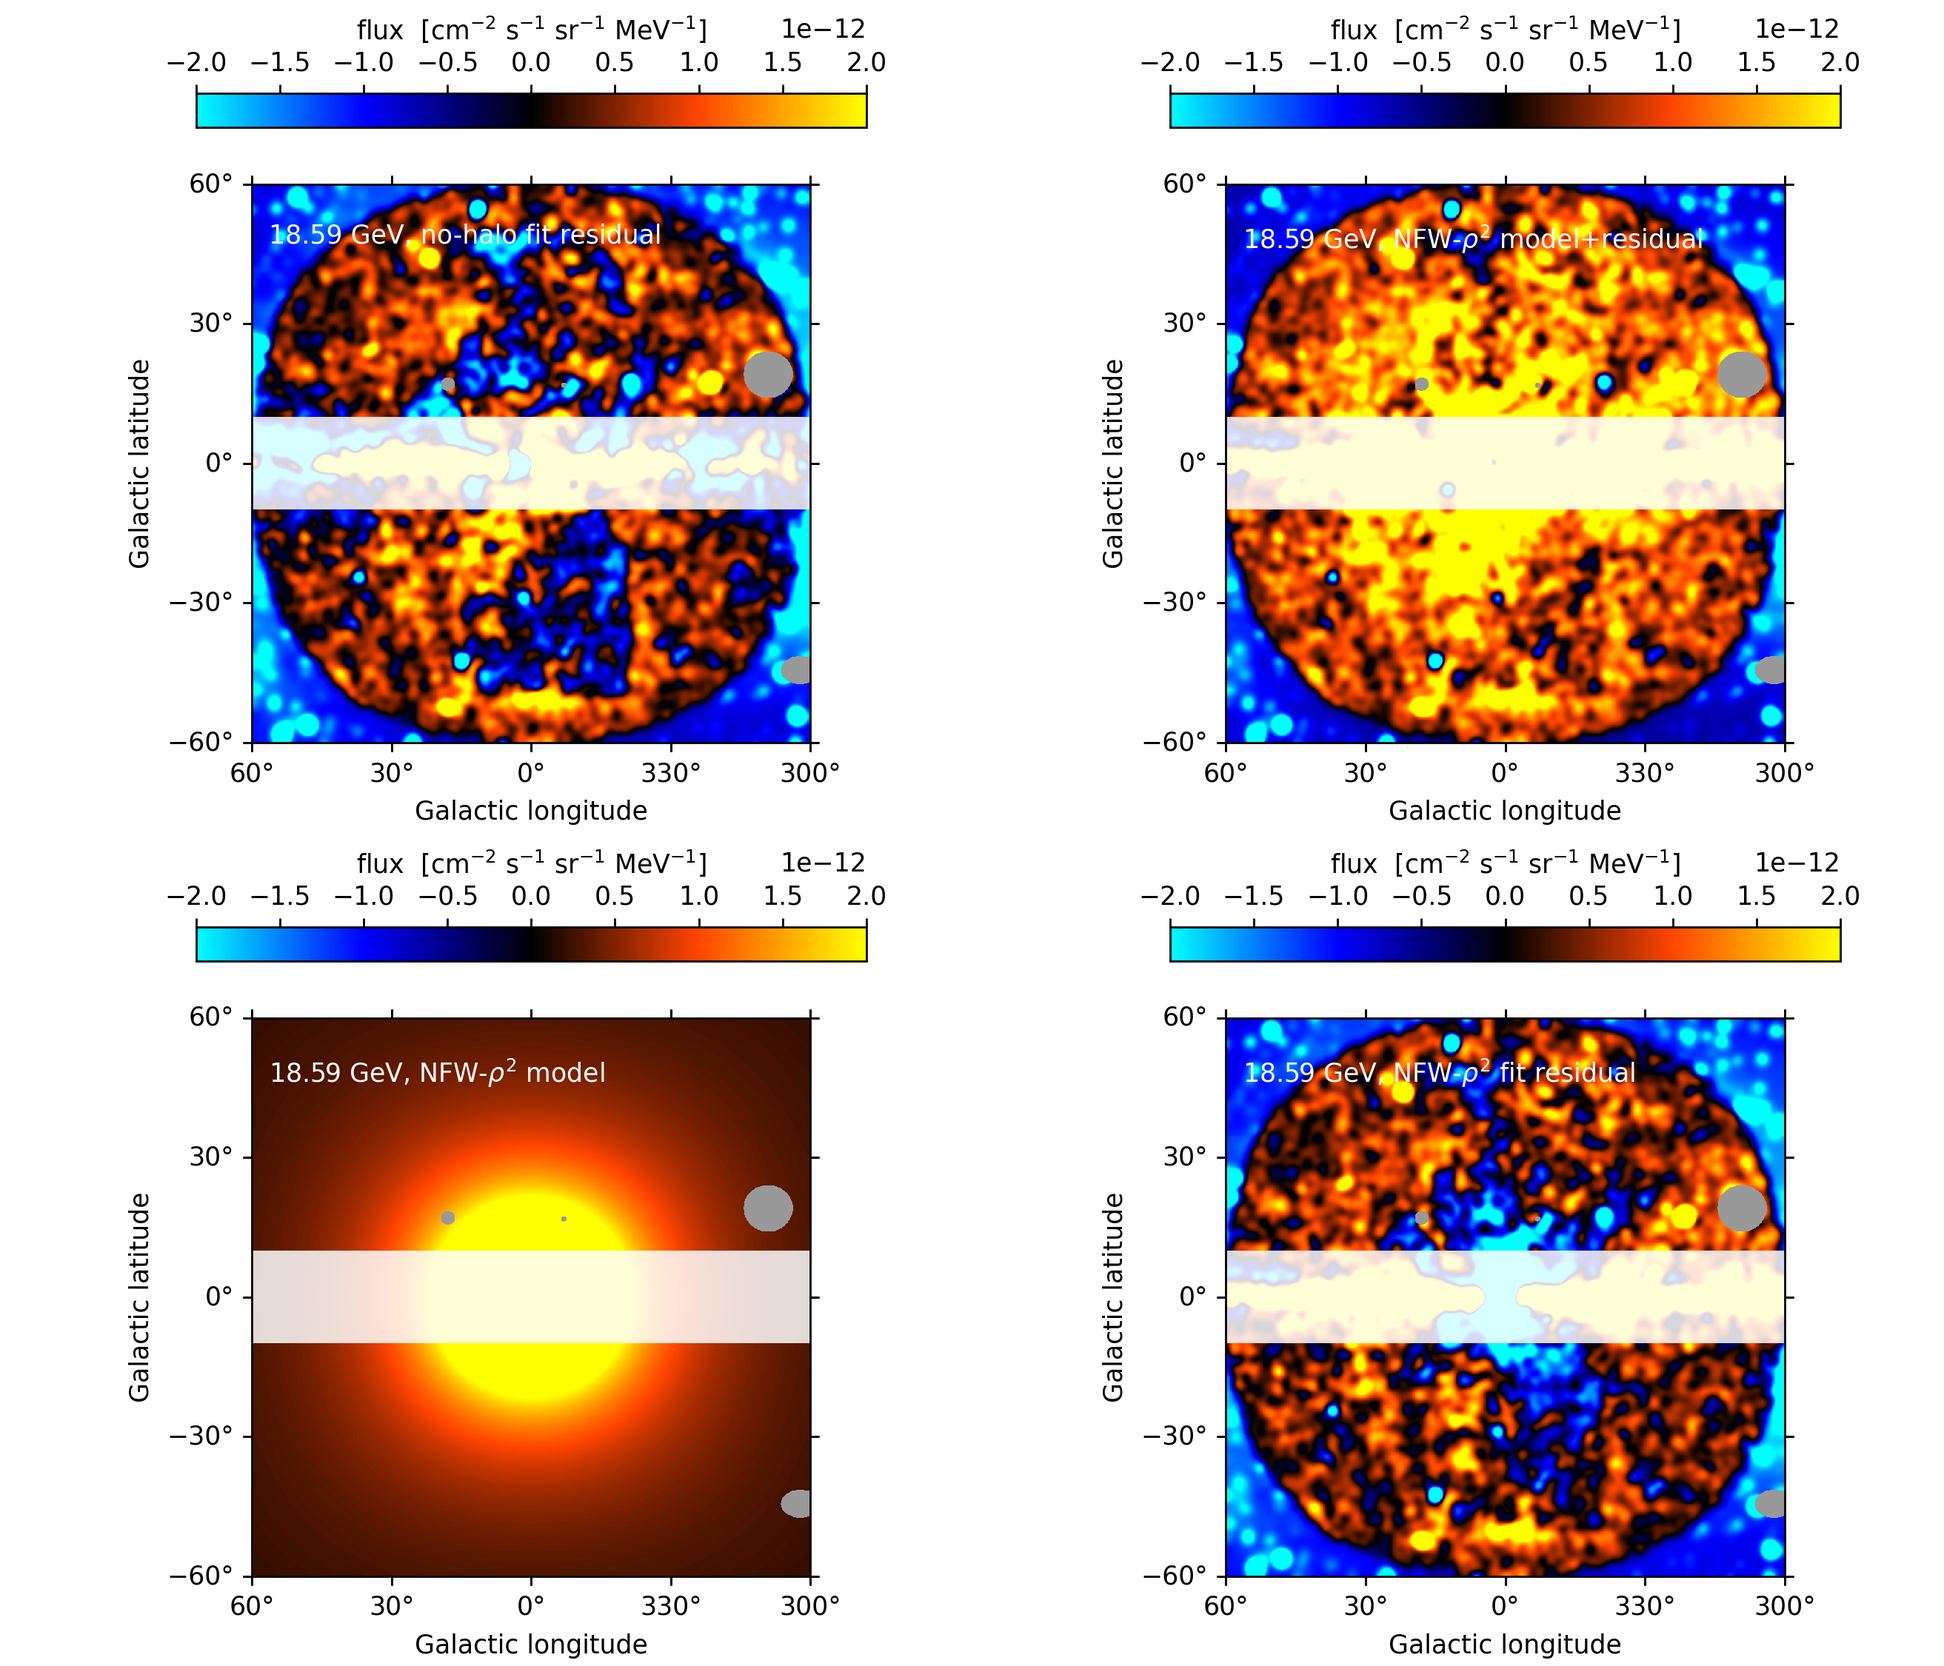
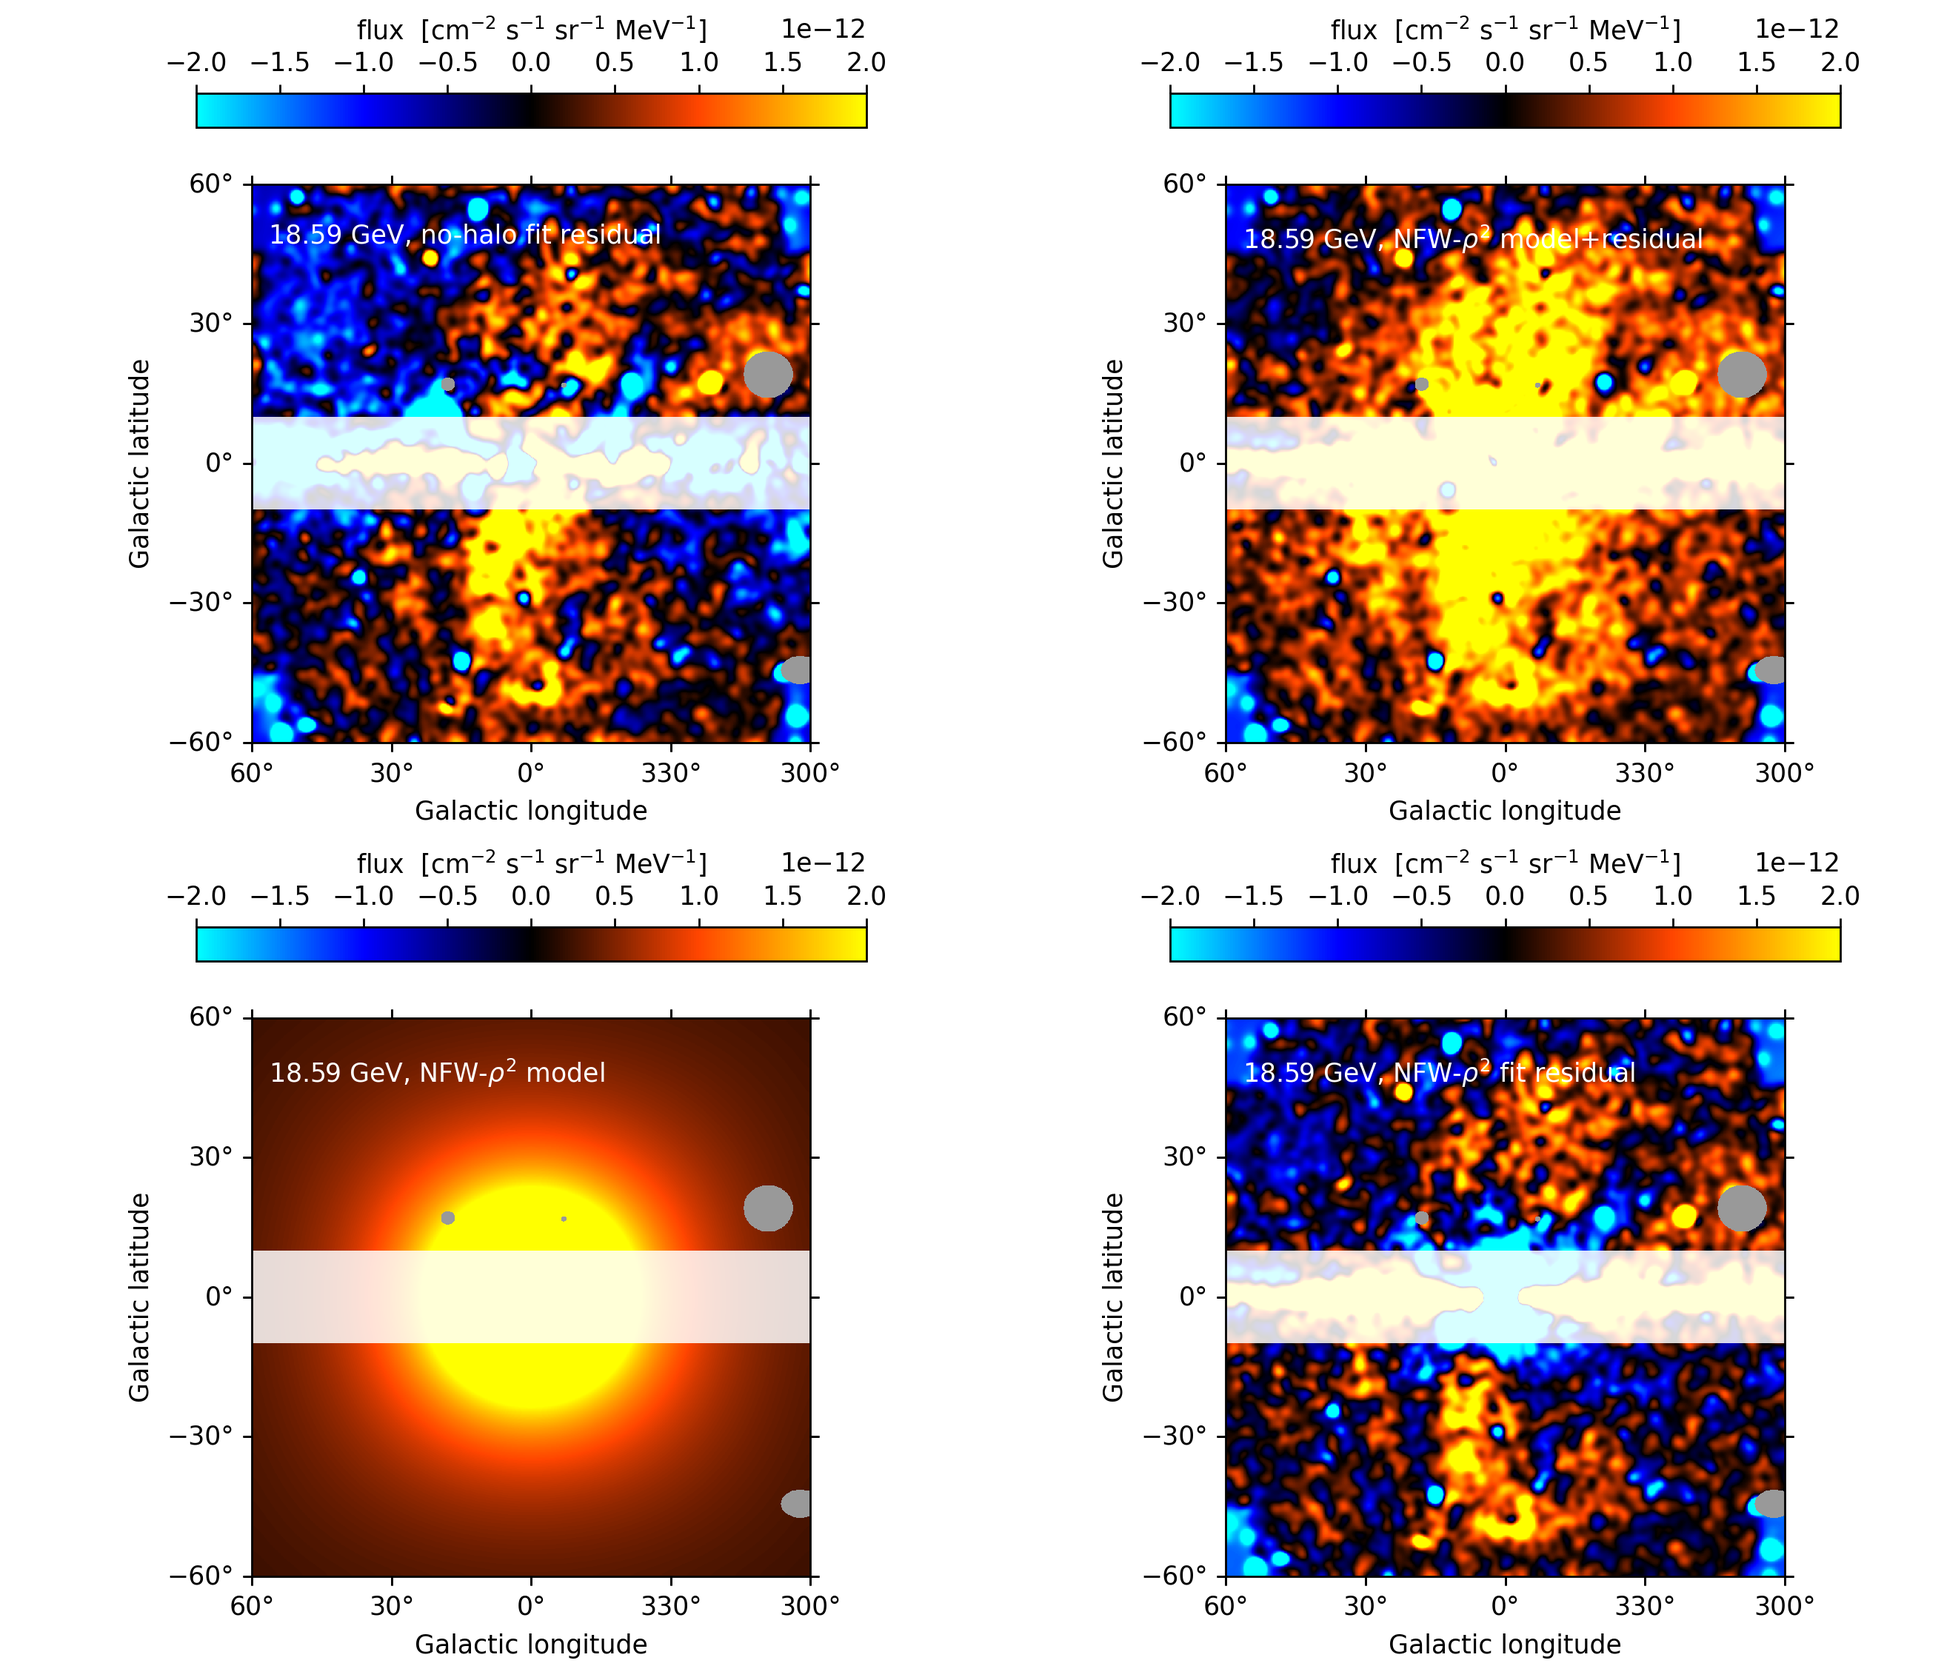
defaulting runs

diff --git a/Totani_paper_check/make_templates/build_nfw_template.py b/Totani_paper_check/make_templates/build_nfw_template.py
@@ -217,7 +217,7 @@ def main():
     )
     ap.add_argument(
         "--rescale-to-data-sum",
-        default=True,
+        default=False,
         action=argparse.BooleanOptionalAction,
         help="After building mu, rescale each energy plane so sum(mu)=sum(data) within the ROI/data mask.",
     )
@@ -333,9 +333,10 @@ def main():
     if np.any(data_ok2d):
         max_abs_lat_cov = float(np.nanmax(np.abs(lat[data_ok2d])))
         print(f"max |lat| with valid data coverage: {max_abs_lat_cov:.2f} deg")
-        if max_abs_lat_cov < 55.0:
+        lat_warn = max(0.0, float(args.roi_lat) - 2.0 * float(args.binsz))
+        if max_abs_lat_cov < lat_warn:
             print(
-                "WARNING: data coverage does not extend to |b|>=55 deg; "
+                f"WARNING: data coverage does not extend to |b|>={lat_warn:.2f} deg; "
                 "high-latitude discrimination between NFW rho^1, rho^2, and rho^2.5 templates "
                 "will be degraded relative to Totani (2025)."
             )
@@ -367,35 +368,19 @@ def main():
                 f"rhos={args.rhos}, rs_kpc={args.rs_kpc}, R0_kpc={args.R0_kpc}, rvir_kpc={args.rvir_kpc}, gamma={args.gamma})."
             )
 
-    # Optional: pole-like normalisation using a latitude band on the actual pixel grid.
-    # This keeps the template spatial-only while allowing a configurable "pole" latitude.
+    # Pole normalization is defined at b=+90 deg (analytic J_pole) to match Totani's convention.
+    # Do not approximate it by averaging over a latitude band on the pixel grid.
     if args.norm in ("pole", "pole+roi-sum", "ref-point"):
-        pole_lat = float(args.pole_lat)
-        pole_lat_eff = max(0.0, min(90.0, pole_lat - float(args.binsz)))
-        pole2d = data_ok2d & (np.abs(lat) >= pole_lat_eff)
-        pole_vals = J[pole2d]
-        pole_vals = pole_vals[np.isfinite(pole_vals) & (pole_vals > 0)]
-        if pole_vals.size == 0:
-            # If data coverage does not extend to the requested pole band (common if |b|max < pole_lat),
-            # fall back to the *analytic* Jpole at b=+90 deg. This preserves Totani's pole convention.
-            vabs = np.abs(lat[data_ok2d])
-            max_cov = float(np.nanmax(vabs)) if np.any(np.isfinite(vabs)) else np.nan
-            print(
-                f"WARNING: pole normalization band empty for |b|>={pole_lat_eff:.2f} deg (max coverage |b|~{max_cov:.2f} deg). "
-                "Falling back to analytic Jpole at b=90 deg."
-            )
-            Jpole = pole_normalization_value(
-                rho_power=args.rho_power,
-                gamma=args.gamma,
-                rs_kpc=args.rs_kpc,
-                rhos=args.rhos,
-                R0_kpc=args.R0_kpc,
-                rvir_kpc=args.rvir_kpc,
-                n_s=max(4096, args.n_s),
-                smax_kpc=args.smax_kpc,
-            )
-        else:
-            Jpole = float(np.mean(pole_vals))
+        Jpole = pole_normalization_value(
+            rho_power=args.rho_power,
+            gamma=args.gamma,
+            rs_kpc=args.rs_kpc,
+            rhos=args.rhos,
+            R0_kpc=args.R0_kpc,
+            rvir_kpc=args.rvir_kpc,
+            n_s=max(4096, args.n_s),
+            smax_kpc=args.smax_kpc,
+        )
         if (not np.isfinite(Jpole)) or (Jpole <= 0.0):
             raise RuntimeError("Pole normalization factor is non-positive or non-finite.")
 
@@ -448,24 +433,16 @@ def main():
     # Now apply ROI mask and normalize to mean=1 within ROI for fitter stability.
     J[~roi] = 0.0
 
-    # For fitting stability: normalise spatial template to mean=1 within ROI
-    vals = J[roi]
-    vals = vals[np.isfinite(vals) & (vals > 0)]
-    if vals.size == 0:
-        raise RuntimeError("NFW template is zero in ROI after masking.")
-    mroi = float(np.mean(vals))
-    if (not np.isfinite(mroi)) or (mroi == 0.0):
-        raise RuntimeError("NFW ROI mean is invalid; cannot normalize.")
-    J = J / mroi
-    norm_fact_total *= float(mroi)
-
     nfw_spatial = J.astype(np.float64)
 
     # Solid angle map
     omega = pixel_solid_angle_map(wcs, ny, nx, args.binsz)
-    # Pole pixel is not exactly b=90 in your ROI grid, so sample a small cap
-    pole_cap = roi & (lat > 59.0)  # or > 55, depending on ROI
-    print("mean J in pole cap:", np.mean(J[pole_cap]))
+    # Pole pixel is not exactly b=90 in the ROI grid; report a data-driven high-latitude cap.
+    cap_lat = min(float(args.roi_lat), float(max_abs_lat_cov)) - 2.0 * float(args.binsz)
+    if np.isfinite(cap_lat) and (cap_lat > 0.0):
+        pole_cap = roi & (np.abs(lat) >= cap_lat)
+        if np.any(pole_cap):
+            print(f"mean J in |b|>={cap_lat:.3f} deg cap:", float(np.mean(J[pole_cap])))
 
 
     def _template_scale_report(*, k: int, data2d: np.ndarray, mu2d: np.ndarray, mask2d: np.ndarray, label: str):

diff --git a/Totani_paper_check/figures/fig8/make_totani_fig8.py b/Totani_paper_check/figures/fig8/make_totani_fig8.py
@@ -21,13 +21,21 @@ from totani_helpers.totani_io import (  # noqa: E402
     read_exposure,
     resample_exposure_logE,
 )
-from totani_helpers.fit_utils import E2_from_pred_counts_maps, build_fit_mask3d  # noqa: E402
-from totani_helpers.mcmc_io import combine_loopI, load_mcmc_coeffs_by_label, pick_coeff
-
-from fig2_3.make_totani_fig2_fig3_all import (  # noqa: E402
-    assert_templates_match_counts,
+from totani_helpers.fit_utils import (  # noqa: E402
+    E2_from_pred_counts_maps,
+    build_fit_mask3d,
     load_mu_templates_from_fits,
 )
+from totani_helpers.mcmc_io import combine_loopI, load_mcmc_coeffs_by_label, pick_coeff
+
+
+def _assert_templates_match_counts(counts: np.ndarray, mu_list: list[np.ndarray], labels: list[str]) -> None:
+    if not isinstance(mu_list, (list, tuple)) or len(mu_list) != len(labels):
+        raise ValueError("mu_list must align with labels")
+    for lab, mu in zip(labels, mu_list):
+        mu = np.asarray(mu)
+        if mu.shape != counts.shape:
+            raise ValueError(f"Template '{lab}' has shape {mu.shape}, expected counts shape {counts.shape}")
 
 
 REPO_DIR = os.environ.get(
@@ -60,17 +68,17 @@ def main():
 
     ap.add_argument(
         "--mcmc-dir-rho25",
-        default=os.path.join(REPO_DIR, "Totani_paper_check", "mcmc", "mcmc_results_rho2p5"),
+        default=os.path.join(REPO_DIR, "Totani_paper_check", "mcmc", "mcmc_results_fig5"),
         help="MCMC directory for rho=2.5 variant (mcmc_results_kXX.npz files).",
     )
     ap.add_argument(
         "--mcmc-dir-rho2",
-        default=os.path.join(REPO_DIR, "Totani_paper_check", "mcmc", "mcmc_results_rho2"),
+        default=os.path.join(REPO_DIR, "Totani_paper_check", "mcmc", "mcmc_results_fig6"),
         help="MCMC directory for rho=2 variant (mcmc_results_kXX.npz files).",
     )
     ap.add_argument(
         "--mcmc-dir-rho1",
-        default=os.path.join(REPO_DIR, "Totani_paper_check", "mcmc", "mcmc_results"),
+        default=os.path.join(REPO_DIR, "Totani_paper_check", "mcmc", "mcmc_results_fig7"),
         help="MCMC directory for rho=1 variant (mcmc_results_kXX.npz files).",
     )
     ap.add_argument(
@@ -170,7 +178,7 @@ def main():
             filename_pattern="mu_{label}_counts.fits",
             hdu=0,
         )
-        assert_templates_match_counts(counts, mu_list, labels_load)
+        _assert_templates_match_counts(counts, mu_list, labels_load)
 
         tab = load_mcmc_coeffs_by_label(mcmc_dir=str(mcmc_dir), stat=str(args.mcmc_stat), nE=nE)
         coeffs_plot = combine_loopI(coeffs_by_label=dict(tab.coeffs_by_label), out_key="loopI", drop_inputs=False)

diff --git a/Totani_paper_check/mcmc/run_mcmc.py b/Totani_paper_check/mcmc/run_mcmc.py
@@ -492,7 +492,7 @@ def main():
     ap.add_argument(
         "--negative-keys",
         nargs="+",
-        default=None,
+        default=["nfw", "fb_neg"],
         help=(
             "Substrings that identify components allowed to go negative. "
             "Default is ['nfw', 'fb_neg'] (applied as substring matches)."
@@ -503,7 +503,7 @@ def main():
     ap.add_argument(
         "--iso-anchor-e2",
         type=float,
-        default=1e-4,
+        default=None,
         help=(
             "Anchor the isotropic prior center to this E^2 dN/dE value [MeV cm^-2 s^-1 sr^-1] by converting "
             "to the corresponding f_iso for each energy bin."
@@ -511,7 +511,7 @@ def main():
     )
     ap.add_argument(
         "--iso-anchor",
-        default=True,
+        default=False,
         action=argparse.BooleanOptionalAction,
         help="Enable/disable anchoring the isotropic prior center to --iso-anchor-e2 (default: enabled).",
     )
@@ -527,7 +527,7 @@ def main():
     ap.add_argument(
         "--iso-prior-sigma-dex",
         type=float,
-        default=0.5,
+        default=None,
         help="Gaussian prior on log10(f_iso / f_iso0) with this sigma (dex). Set to 0 to disable.",
     )
     ap.add_argument(
@@ -612,7 +612,7 @@ def main():
     )
     ap.add_argument(
         "--tighten-negative-bounds",
-        default=True,
+        default=False,
         action=argparse.BooleanOptionalAction,
         help=(
             "Tighten negative lower bounds for any component allowed to go negative "
@@ -945,9 +945,7 @@ def main():
             vprint(1, f"[iso floor] E2(f=1)={E2I:.6e}  floor={float(args.iso_floor_e2):.6e}  => f_iso>={float(f_floor):.6e}")
 
     tighten_negative_bounds = bool(args.tighten_negative_bounds)
-    if args.tighten_halo_neg_bound is not None:
-        tighten_negative_bounds = bool(args.tighten_halo_neg_bound)
-
+    
     if tighten_negative_bounds:
         neg_idxs = []
         for j, lab in enumerate(labels):

diff --git a/Totani_paper_check/make_templates/build_loopI_template.py b/Totani_paper_check/make_templates/build_loopI_template.py
@@ -97,16 +97,9 @@ def main():
     ap.add_argument("--binsz", type=float, default=0.125)
     ap.add_argument("--roi-lon", type=float, default=60.0)
     ap.add_argument("--roi-lat", type=float, default=60.0)
-
-    ap.add_argument(
-        "--iso-target-e2",
-        type=float,
-        default=1e-4,
-        help="Reference E^2 dN/dE [MeV cm^-2 s^-1 sr^-1] used to set f=1 normalization.",
-    )
     ap.add_argument(
         "--rescale-to-data-sum",
-        default=True,
+        default=False,
         action=argparse.BooleanOptionalAction,
         help="After building mu, rescale each energy plane so sum(mu)=sum(data) within ROI/data mask.",
     )
@@ -264,10 +257,7 @@ def main():
     # --- PHENO (Totani-style): energy-independent morphology replicated ---
     Tcube = np.broadcast_to(T_norm[None, :, :], (nE, ny, nx)).astype(float).copy()
 
-    iso_target_E2 = float(args.iso_target_e2)
-    Iref_mev = iso_target_E2 / (np.asarray(Ectr_mev, float) ** 2)
-
-    loopI_dnde = Iref_mev[:, None, None] * Tcube
+    loopI_dnde = Tcube
     loopI_E2dnde = loopI_dnde * (np.asarray(Ectr_mev, float)[:, None, None] ** 2)
     conv = expo * omega[None, :, :] * dE_mev[:, None, None]
     if conv.shape != (nE, ny, nx) or conv.ndim != 3:
@@ -295,7 +285,7 @@ def main():
 
         Tn = T_in / np.mean(vals_in)
         Tn_cube = np.broadcast_to(Tn[None, :, :], (nE, ny, nx)).astype(float).copy()
-        dnde = Iref_mev[:, None, None] * Tn_cube
+        dnde = Tn_cube
         e2 = dnde * (np.asarray(Ectr_mev, float)[:, None, None] ** 2)
         mu = dnde * conv
         if mu.shape != (nE, ny, nx):
@@ -374,7 +364,6 @@ def main():
     out_mu_B = os.path.join(args.outdir, "mu_loopB_counts.fits")
 
     hdr_out = hdr.copy()
-    hdr_out["ISOE2"] = (float(iso_target_E2), "Reference E^2 dN/dE for f=1 [MeV cm-2 s-1 sr-1]")
     hdr_out["RESCLSUM"] = (bool(args.rescale_to_data_sum), "Rescaled each bin to match data sum in fit mask")
 
     write_primary_with_bunit(

diff --git a/Totani_paper_check/make_templates/build_bubbles_templates.py b/Totani_paper_check/make_templates/build_bubbles_templates.py
@@ -215,7 +215,7 @@ def main():
     )
     ap.add_argument(
         "--rescale-to-data-sum",
-        default=True,
+        default=False,
         action=argparse.BooleanOptionalAction,
         help="After building mu, rescale each energy plane so sum(mu)=sum(data) within ROI/srcmask/data coverage.",
     )
@@ -349,7 +349,7 @@ def main():
         base_component_order=labels,
         roi2d=roi2d,
         srcmask2d=src_keep_2d,
-        boundary2d=boundary2d,
+        boundary2d=None,
         lat_deg_2d=lat2d,
         disk_cut_deg=float(args.disk_cut_deg),
         k_bins_for_bubbles=k_bins,
@@ -371,7 +371,10 @@ def main():
     _save_mask_fits(pos_out, pos_mask.astype(np.uint8), hdr)
     _save_mask_fits(neg_out, neg_mask.astype(np.uint8), hdr)
 
-    flat_mask = (np.asarray(pos_mask, bool) | np.asarray(neg_mask, bool))
+    if boundary2d is None:
+        flat_mask = (np.asarray(pos_mask, bool) | np.asarray(neg_mask, bool))
+    else:
+        flat_mask = np.asarray(boundary2d, bool)
     flat_out = os.path.join(args.out_dir, "fb_flat_mask.fits")
     _save_mask_fits(flat_out, flat_mask.astype(np.uint8), hdr)
 

diff --git a/Totani_paper_check/make_templates/build_gas_template.py b/Totani_paper_check/make_templates/build_gas_template.py
@@ -54,11 +54,11 @@ def main():
     )
     ap.add_argument(
         "--pion",
-        default=os.path.join(DATA_DIR, "templates", "pion_decay_mapcube_54_0f770002.gz"),
+        default=os.path.join(DATA_DIR, "templates", "pion_decay_mapcube_54_0f770003.gz"),
     )
     ap.add_argument(
         "--bremss",
-        default=os.path.join(DATA_DIR, "templates", "bremss_mapcube_54_0f770002.gz"),
+        default=os.path.join(DATA_DIR, "templates", "bremss_mapcube_54_0f770003.gz"),
     )
     ap.add_argument(
         "--outdir",

diff --git a/Totani_paper_check/make_templates/build_ics_template.py b/Totani_paper_check/make_templates/build_ics_template.py
@@ -41,7 +41,7 @@ def main():
     )
     ap.add_argument(
         "--ics",
-        default=os.path.join(DATA_DIR, "templates", "ics_anisotropic_mapcube_54_0f770002.gz"),
+        default=os.path.join(DATA_DIR, "templates", "ics_anisotropic_mapcube_54_0f770003.gz"),
     )
     ap.add_argument(
         "--outdir",

diff --git a/Totani_paper_check/figures/fig12/make_fig12.py b/Totani_paper_check/figures/fig12/make_fig12.py
@@ -829,6 +829,7 @@ def main():
     os.makedirs(args.outdir, exist_ok=True)
 
     counts, hdr, _Emin_mev, _Emax_mev, Ectr_mev, dE_mev = read_counts_and_ebounds(args.counts)
+    print(_Emin_mev, _Emax_mev)
     nE, ny, nx = counts.shape
     wcs = WCS(hdr).celestial
     Ectr_gev = Ectr_mev / 1000.0
